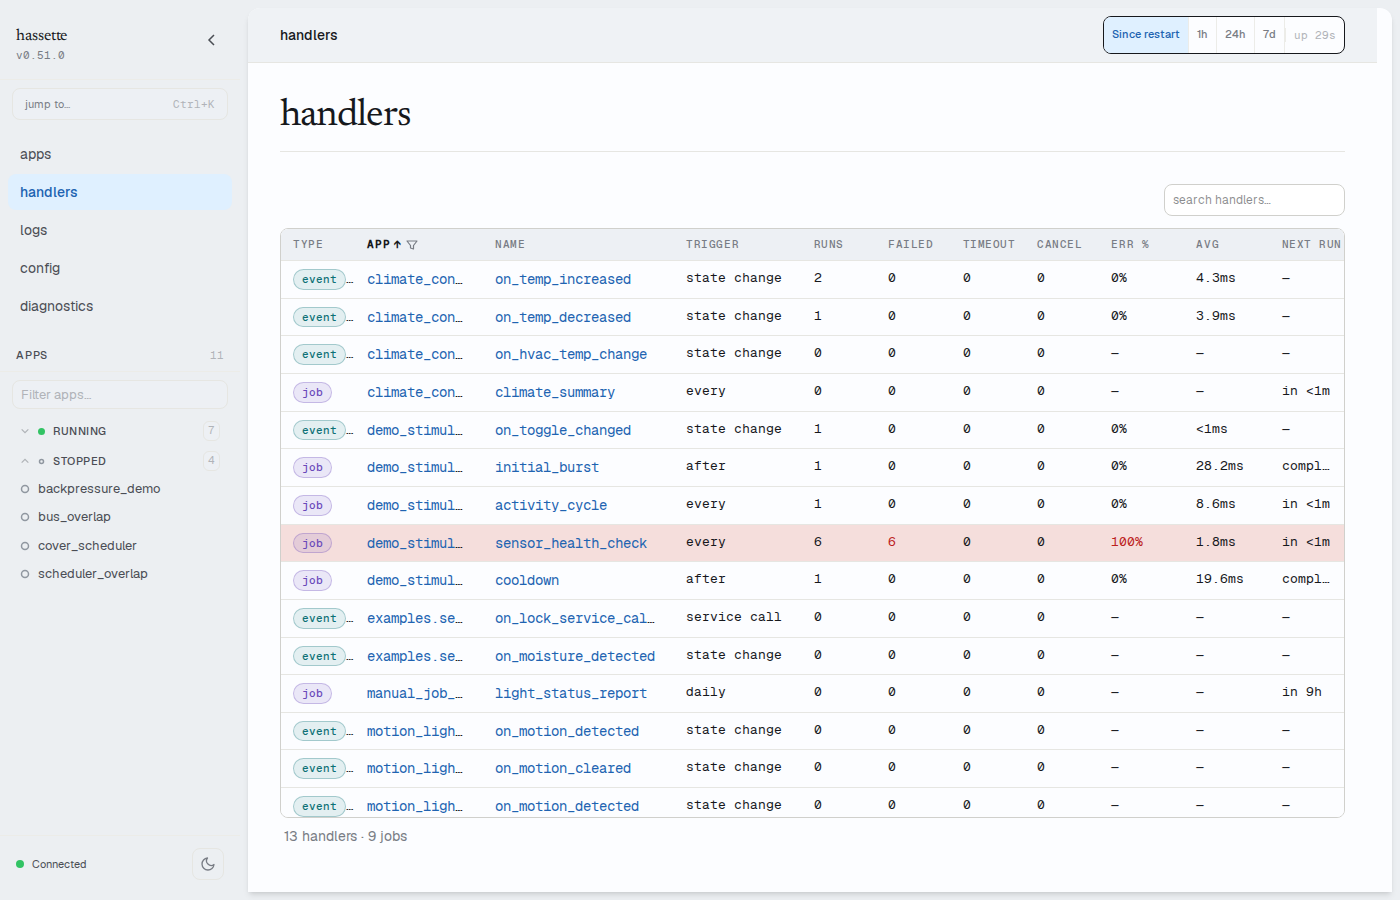
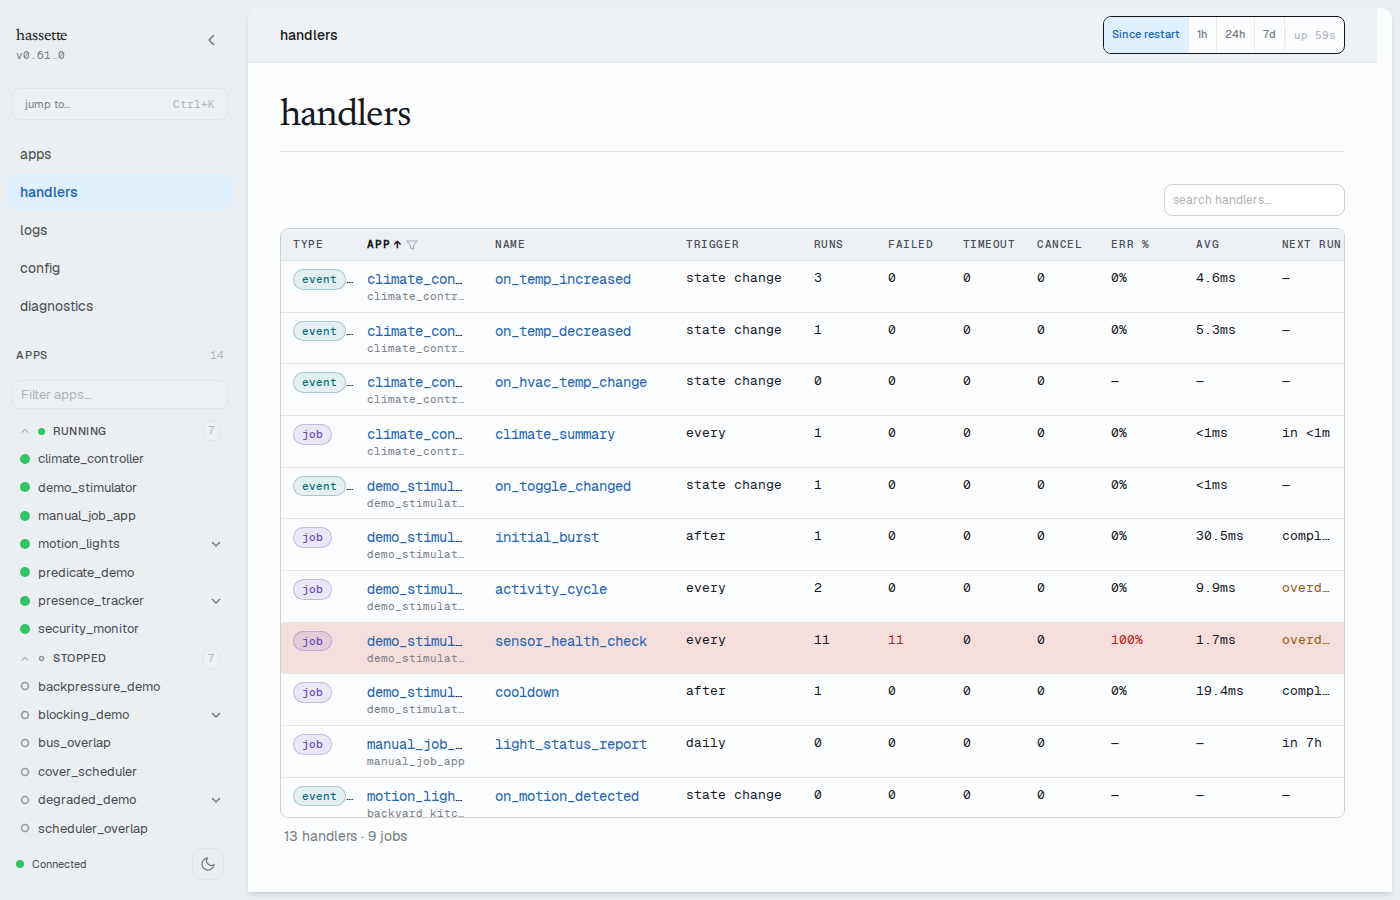
docs: regenerate instance screenshots and show instance on handler rows
Put the instance name on its own line in the Handlers table, since the
narrow app column truncated an inline suffix out of view, and refresh the
affected screenshots. Apply the voice pass to the changed docs prose.

Claude-Session: https://claude.ai/code/session_01EvoyEikMPvg7ycyvKK2eyX

diff --git a/frontend/src/pages/handlers-rows.tsx b/frontend/src/pages/handlers-rows.tsx
@@ -125,7 +125,15 @@ export function HandlerTableRow({ row }: HandlerRowProps) {
       </td>
       <td className="font-mono text-sm">
         <AppLink appKey={row.app_key} />
-        <InstanceSuffix name={instanceName} />
+        {instanceName !== null && (
+          <div
+            className="truncate text-xs text-muted-foreground"
+            title={instanceName}
+            data-testid="handler-row-instance"
+          >
+            {instanceName}
+          </div>
+        )}
       </td>
       <td className="font-mono text-sm" title={row.handler_method}>
         <AppLink

diff --git a/design/specs/144-address-instances-by-name/design.md b/design/specs/144-address-instances-by-name/design.md
@@ -216,7 +216,13 @@ Where each piece lives:
 - The CLI's `--instance` check skips when the app list can't be read, for reads as well as actions: a telemetry outage must not block a start, stop or reload, and a read would fail on its own in that outage anyway. The server answers for the name then.
 - A `/instances/{name}/...` on an app with no manifest and an untracked name answers `instance_not_found`, and with nothing tracked at all answers `app_not_found`: the first is a real orphaned app with a wrong name, the second is no app.
 - `ActionOutcomes` keeps first-targeted order instead of re-sorting: `_targets` sorts names into display order on entry, and a name a config change adds during a reload goes after the existing ones.
-- Seed scenarios keep an `instance_ordinal` helper argument, local to the generators, to name a class's nth seeded instance (`Class.N`). It writes only the name.
-- `make_app_instance_info` and the e2e fixtures name a default instance `Class.0`, the shape the seed scenarios store, and the e2e manifests' `app_config` lists the same names, so routes accept what the UI sends.
+- Seed scenarios keep an `instance_ordinal` helper argument, local to the generators, to name a class's nth seeded instance (`myapp_0`). It writes only the name, in a shape `instance_name_reason` accepts, so a served seed exercises real names.
+- `make_app_instance_info` and the e2e fixtures name a default instance `myapp_0`, the shape the seed scenarios store, and the e2e manifests' `app_config` lists the same names, so routes accept what the UI sends.
+- The palette's sub text is just the app key, and the app detail header's meta shows `instance <name>` only when the page resolves a current instance: an unaddressed parent page has no instance to name.
+- The blocking card's instance scope uses the page's `?instance=` value and is app-wide without one, matching D3. An unnamed instance ref stays plain text in the "on ..." line, as D7 links it nowhere.
+- A single-instance row with no WebSocket entry falls back to `row.status`, and the D5 overlay otherwise applies as ratified.
+- The config tab heads each block with its `instance_name` rather than `Instance <position>`, since a positional label is what this change removes.
+- `InstanceRef` and its interning cache are gone: with `index` removed it held one string, and `ActionButtons` takes the name directly.
+- The Handlers page puts `instance_name` on its own muted line in the desktop app cell rather than inline, because the narrow column truncated an inline suffix out of view. A single-instance app whose instance is named after its key repeats that name, accepted so every row reads the same way.
 - The released client's `{index}` route templates are in `EXCLUDED` (`tools/client_compat_coverage.py`) until a release ships the `{instance_name}` ones; a stale entry fails that check, so they come out with that release.
-- The Handlers page shows `instance_name` as a muted suffix in the app cell, hidden on framework rows, and its handler link carries `?instance=`, since a multi-instance app's handler link without it bounces to the overview.
+- The Handlers page hides `instance_name` on framework rows, and its handler link carries `?instance=`, since a multi-instance app's handler link without it bounces to the overview.

diff --git a/docs/pages/operating/upgrading.md b/docs/pages/operating/upgrading.md
@@ -165,7 +165,7 @@ Don't use `cache_key` on an app with several instances. An explicit `cache_key` 
 
 This applies when upgrading from 0.61 or earlier. Everything that addressed an app instance by its position in the config now takes its `instance_name`:
 
-- **Routes:** `POST /api/apps/{key}/instances/{instance_name}/{start,stop,reload}`, and an `instance_name` query parameter in place of `instance_index`. Hassette ignores a leftover `instance_index`, so such a request answers with every instance.
+- **Routes:** `POST /api/apps/{key}/instances/{instance_name}/{start,stop,reload}`, and an `instance_name` query parameter in place of `instance_index`. Hassette ignores a leftover `instance_index`, so a request that still sends it answers with every instance.
 - **Telemetry with no instance:** `/api/telemetry/app/{key}/health`, `/listeners` and `/jobs` used to report the first instance. They now cover every instance, as `/blocking`, `/activity` and the log routes already did, including runs stored under a name that was since renamed or removed.
 - **API responses:** the integer position is gone from `AppInstance`, `InstanceOutcome`, `ActionResponse`, `LogEntry`, listener and job summaries, blocking references, and WebSocket messages. Instances are listed in config order. Listener and job summaries gain `instance_name`.
 - **CLI:** `--instance` takes a name, and `--instance 0` now fails with the list of known names. `app start|stop|reload --json` reports `instance_name` instead of `instance_index`, including under `outcomes`.
@@ -173,9 +173,9 @@ This applies when upgrading from 0.61 or earlier. Everything that addressed an a
 - **Apps:** `App.index`, the `index` constructor argument and the test harness's `index` are removed.
 - **Web UI links:** `?instance=` takes a name. An old numeric bookmark lands on the app's page.
 
-`hassette-client` releases before this one can't read the new responses. The Home Assistant integration stops updating until you install a release that pins the new client.
+Older `hassette-client` releases can't read the new responses. The Home Assistant integration stops updating until a release pins the new client.
 
-Rows recorded before instance names can show in blocking findings as "unnamed instance" until retention deletes them. The upgrade rewrites four telemetry tables at startup, so the first start can take longer on a large database. Rolling back past this release means deleting the telemetry database.
+Rows recorded before instance names can show in blocking findings as "unnamed instance" until retention deletes them. The upgrade rewrites four telemetry tables at startup, so the first start can take longer on a large database. Rolling back past this release requires deleting the telemetry database.
 
 ## App Lifecycle Log Lines
 

diff --git a/docs/pages/core-concepts/apps/configuration.md b/docs/pages/core-concepts/apps/configuration.md
@@ -103,9 +103,11 @@ Hassette stores an instance's telemetry history (its handlers, jobs, and their r
 !!! warning "Upgrading resets per-instance views"
     History recorded before names became the key can't be attributed to a name, so per-instance views start empty after upgrading. App-wide totals still count the older runs, and retention deletes those rows on its normal schedule.
 
-Web routes, the Python client, the CLI's `--instance` flag and web UI links all address an instance by its name. A bookmark or script therefore keeps pointing at the same instance after a reorder. Once an instance is renamed or removed, a start, stop or reload on its old name answers 404, reads filtered by that name return only what's still stored under it, and the web UI drops the stale `?instance=` and shows the app's page.
+Web routes, the Python client, the CLI's `--instance` flag and web UI links all address an instance by its name. A bookmark or script keeps pointing at the same instance after a reorder.
 
-An edit that only reorders `config` blocks restarts nothing and sends no refresh to an open dashboard, so its rows keep the old order until its next fetch.
+After an instance is renamed or removed, its old name stops resolving. A start, stop or reload on that name answers 404. A read filtered by that name returns only what is still stored under it. The web UI drops the stale `?instance=` and shows the app's page.
+
+An edit that only reorders `config` blocks restarts nothing and sends no refresh to an open dashboard. Rows keep the old order until the dashboard's next fetch.
 
 ## Typed Configuration
 

diff --git a/docs/pages/cli/commands.md b/docs/pages/cli/commands.md
@@ -530,9 +530,9 @@ Invalid values cause a non-zero exit with an error listing accepted formats.
 
 ### `--instance` resolution
 
-`--instance` requires `--app` (or a positional `<key>` argument on `app health`, `app activity`, `app start`, `app stop`, and `app reload`). It takes the instance name, and the CLI checks it against the app's instances first: if no instance matches, it exits non-zero and lists the available names. The check skips when the app list can't be read, and the server answers for the name.
+`--instance` requires `--app` (or a positional `<key>` argument on `app health`, `app activity`, `app start`, `app stop`, and `app reload`). It takes the instance name, and the CLI checks it against the app's instances first: if no instance matches, it exits non-zero and lists the available names. When the CLI can't read the app list, it skips the check and the server answers for the name.
 
-Because of that check, the CLI refuses a name that has been renamed or removed, even though its history stays readable through the API until retention deletes it.
+The check also rejects the old name of a renamed or removed instance, even though the API keeps that instance's history readable until retention deletes it.
 
 Without `--instance`, read commands cover every instance of the app, including runs under a name that was since renamed or removed, until retention deletes them.
 

diff --git a/docs/pages/testing/harness.md b/docs/pages/testing/harness.md
@@ -189,8 +189,8 @@ build. Another app's status change is the common case, since
 --8<-- "pages/testing/snippets/testing_simulate_event.py"
 ```
 
-`app_key` is the key under `[hassette.apps.<key>]` in `hassette.toml`. `instance_name` is the
-instance's name.
+`app_key` is the key under `[hassette.apps.<key>]` in `hassette.toml`. `instance_name` is the value set in that
+instance's `config`.
 
 `topic` takes a [`Topic`][hassette.types.enums.Topic] value from
 `hassette.types`. The event and payload classes come from
